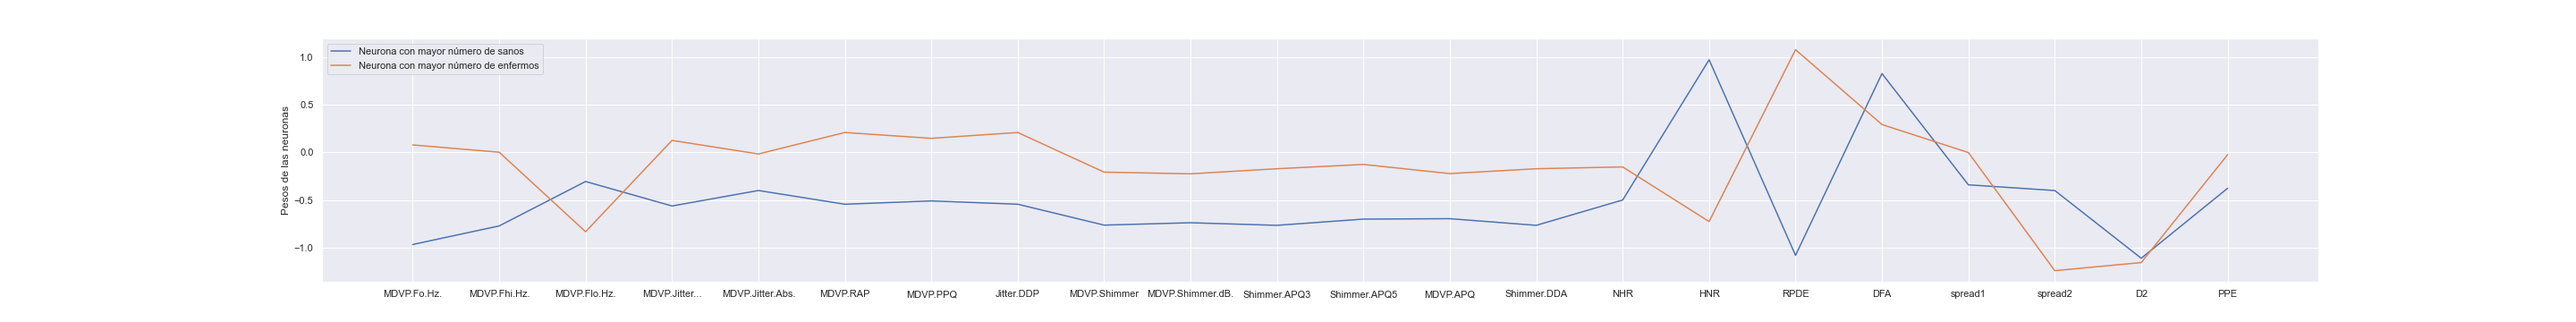
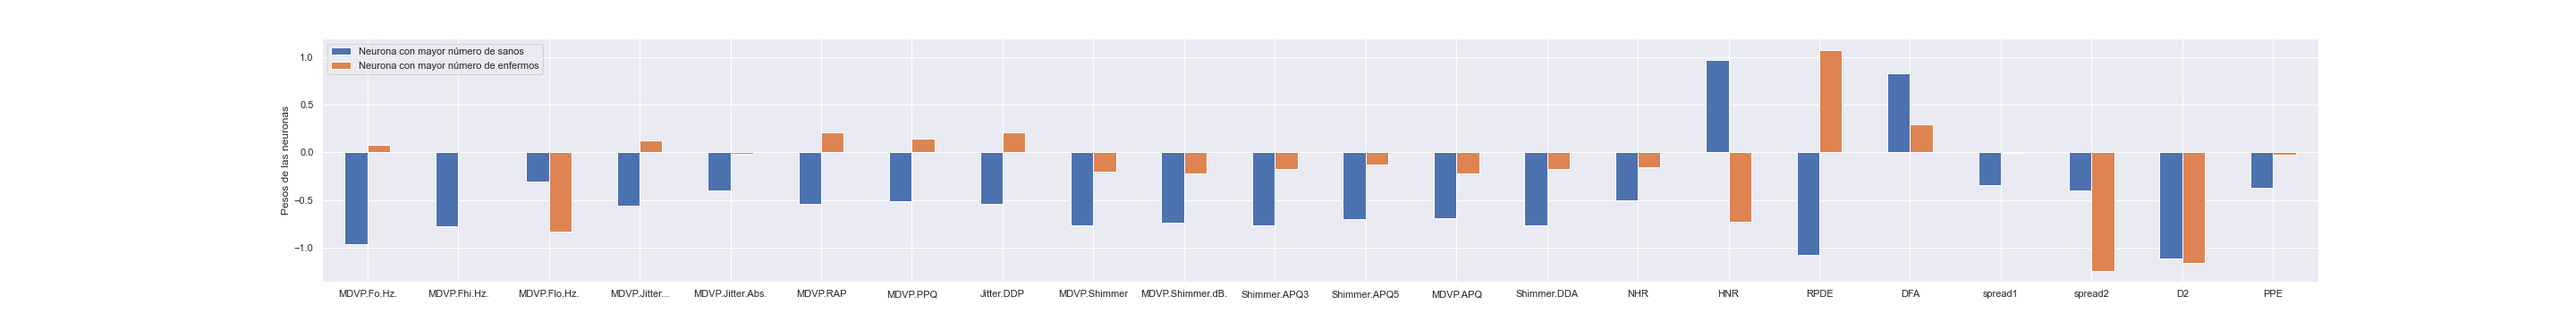
Changed the plots into Histograms, also stored the global plot

diff --git a/OxfordDataset/Code/GeneratedGroups/PrintSanosOEnfermos.py b/OxfordDataset/Code/GeneratedGroups/PrintSanosOEnfermos.py
@@ -6,7 +6,6 @@ import numpy as np
 
 grupo = input("Introduce Grupo del que extraer la información: ")
 directory = os.getcwd() + '\\' + grupo
-print(directory)
 df = pd.read_csv(directory + '\\' + grupo + '.csv')
 df = pd.DataFrame(df)
 
@@ -73,19 +72,20 @@ dim = int(input("Introduce el ancho de la red de neuronas (se asume que es cuadr
 red = np.zeros((dim,dim),int)
 printSanosOEnfermos(df,0,red,dim)
 Neuronaconsanos = getCoordinateMax(red)
-print(Neuronaconsanos)
 red = np.zeros((dim,dim),int)
 printSanosOEnfermos(df,1,red,dim)
 Neuronaconenfermos = getCoordinateMax(red)
-print(Neuronaconenfermos)
 red = np.zeros((dim,dim),int)
 printDifSanosEnfermos(df,red,dim)
 
 df = pd.read_csv(directory + '\\' + grupo + 'Pesos.csv')
 df = pd.DataFrame(df)
 sn.set(rc={'figure.figsize':(40,5)})
-plt.plot(df.iloc[Neuronaconsanos],label='Neurona con mayor número de sanos')
-plt.plot(df.iloc[Neuronaconenfermos],label='Neurona con mayor número de enfermos')
+
+df = pd.DataFrame({'Neurona con mayor número de sanos': df.iloc[Neuronaconsanos],
+                   'Neurona con mayor número de enfermos': df.iloc[Neuronaconenfermos]}, index=df.columns)
+df.plot.bar(rot=0)
+
 plt.legend(loc="upper left")
 plt.ylabel('Pesos de las neuronas')
 plt.savefig(directory + '/PesosMayorSanosEnfermos')
